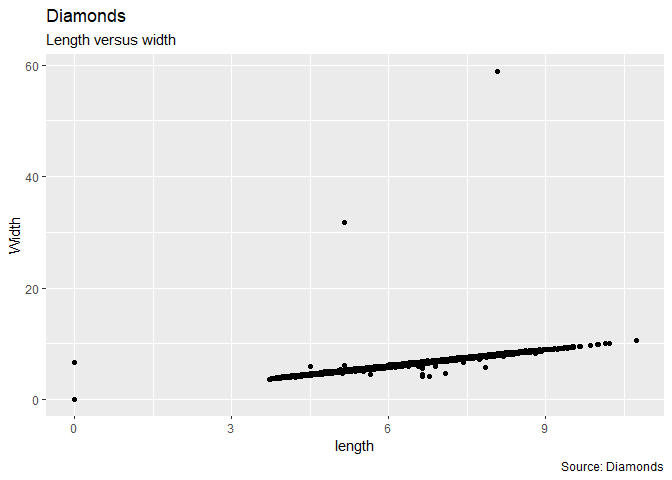
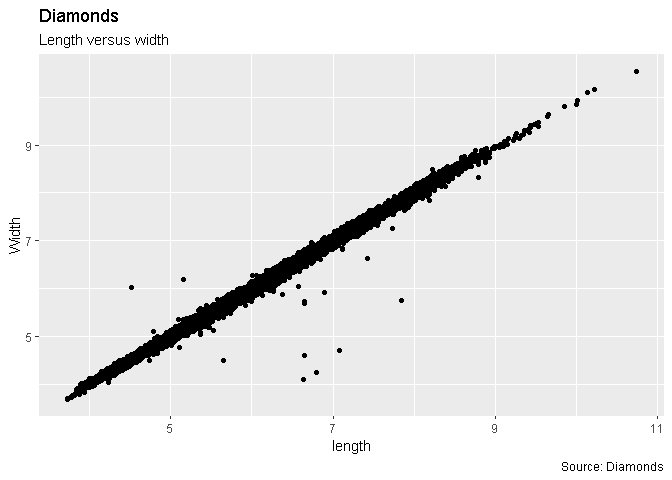
Reccommit of Homework. Fixed outliers.

diff --git a/R_Hw5.md b/R_Hw5.md
@@ -33,7 +33,8 @@ Diamonds1 <-diamonds %>%
   
 
 #question 4
-ggplot(data = diamonds, mapping = aes(x = x, y = y)) + geom_point()+labs(title="Diamonds", 
+avg_size_filt <- filter(diamonds, y<20, y>0, x>0)
+ggplot(data = avg_size_filt, mapping = aes(x = x, y = y)) + geom_point()+labs(title="Diamonds", 
        subtitle="Length versus width",
        caption="Source: Diamonds",
        x="length",
@@ -43,12 +44,12 @@ ggplot(data = diamonds, mapping = aes(x = x, y = y)) + geom_point()+labs(title="
 ![](R_Hw5_files/figure-gfm/unnamed-chunk-1-1.png)<!-- -->
 
 ``` r
-avg_size_filt <- filter(diamonds, z >2)
-ggplot(data = diamonds, mapping = aes(x = x, y = z)) + geom_point()+labs(title="Diamonds", 
+avg_size_filt2 <- filter(diamonds, z <10, z>0, x>0)
+ggplot(data = avg_size_filt2, mapping = aes(x = x, y = z)) + geom_point()+labs(title="Diamonds", 
        subtitle="Length versus depth",
        caption="Source: Diamonds",
        x="length",
-       y="depth")  
+       y="depth") 
 ```
 
-![](R_Hw5_files/figure-gfm/unnamed-chunk-1-2.png)<!-- -->
+![](R_Hw5_files/figure-gfm/unnamed-chunk-2-1.png)<!-- -->
